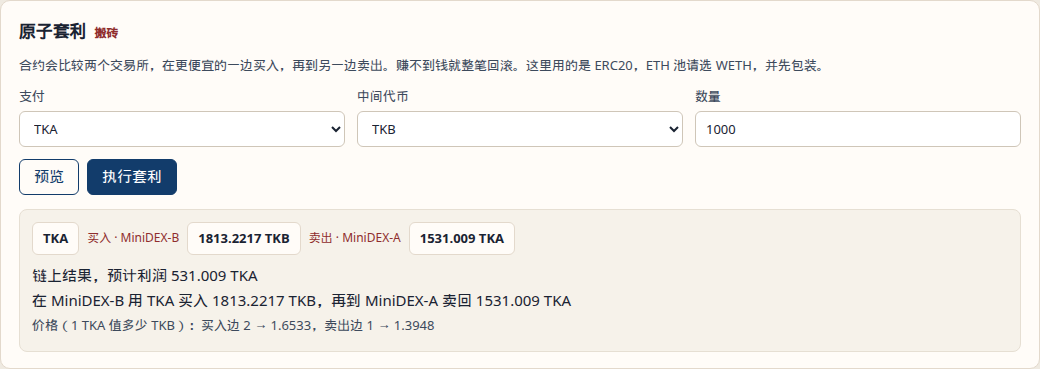
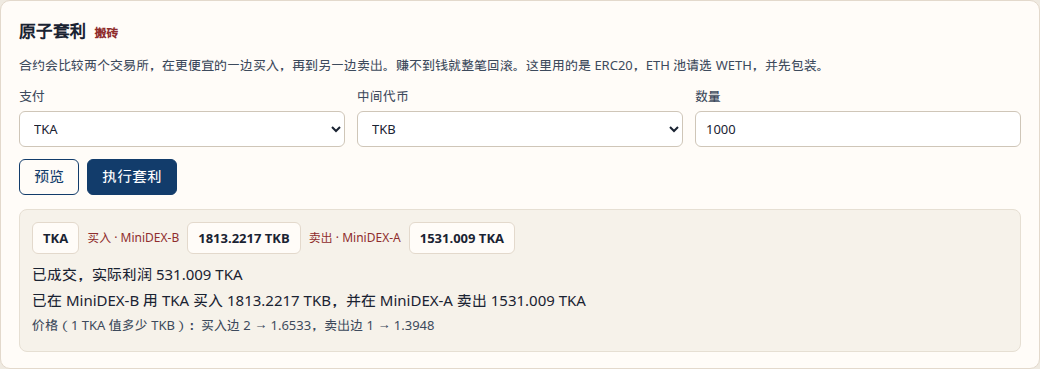
套利成交后改口，换池子时表和标题一起换
预览还是写预计利润。链上成功改成已成交、实际利润。点另一个池子时先把 LP 读完，再一起换标题和表格。

Changed region(s): [[0.0308, 0.6856, 0.5846, 0.8347], [0.4, 0.6856, 0.4923, 0.7154]]

diff --git a/frontend/src/App.tsx b/frontend/src/App.tsx
@@ -83,6 +83,8 @@ function App() {
   const [arbAmt, setArbAmt] = useState('1000');
   const [arbView, setArbView] = useState<ArbView | null>(null);
   const [wrapAmt, setWrapAmt] = useState('1');
+  const [lpPending, setLpPending] = useState('');
+  const pickGen = useRef(0);
 
   function pushLog(line: string) {
     setLogs((prev) => [`${new Date().toLocaleTimeString()}  ${line}`, ...prev].slice(0, 80));
@@ -94,15 +96,23 @@ function App() {
       selectedRef.current && rows.some((row) => row.key === selectedRef.current)
         ? selectedRef.current
         : (rows[0]?.key ?? '');
-    selectedRef.current = key;
-    setPools(rows);
-    setSelected(key);
     const pool = rows.find((row) => row.key === key);
-    setLps(pool ? await loadLps(provider, pool.exchangeIndex, pool.pair) : []);
-    if (owner) {
-      setBalances(await loadBalances(provider, owner));
-      setNfts(await loadMyNfts(provider, owner));
+    const nextLps = pool ? await loadLps(provider, pool.exchangeIndex, pool.pair) : [];
+    const nextBal = owner ? await loadBalances(provider, owner) : null;
+    const nextNfts = owner ? await loadMyNfts(provider, owner) : null;
+    const liveKey =
+      selectedRef.current && rows.some((row) => row.key === selectedRef.current) ? selectedRef.current : key;
+    setPools(rows);
+    if (nextBal && nextNfts) {
+      setBalances(nextBal);
+      setNfts(nextNfts);
     }
+    // 读取期间又点了别的池子，别把旧表盖回去。
+    if (liveKey !== key) return;
+    selectedRef.current = key;
+    setSelected(key);
+    setLps(nextLps);
+    setLpPending('');
   }
 
   useEffect(() => {
@@ -198,14 +208,23 @@ function App() {
   }
 
   async function onChoose(key: string) {
-    selectedRef.current = key;
-    setSelected(key);
     const pool = pools.find((row) => row.key === key);
-    const provider = providerRef.current ?? rpcProvider();
     if (!pool) return;
+    const gen = ++pickGen.current;
+    const previous = selectedRef.current;
+    selectedRef.current = key;
+    setLpPending(`正在读取 ${pool.exchangeName} · ${displaySymbol(pool.token0)} / ${displaySymbol(pool.token1)}`);
+    const provider = providerRef.current ?? rpcProvider();
     try {
-      setLps(await loadLps(provider, pool.exchangeIndex, pool.pair));
+      const rows = await loadLps(provider, pool.exchangeIndex, pool.pair);
+      if (gen !== pickGen.current) return;
+      setSelected(key);
+      setLps(rows);
+      setLpPending('');
     } catch (err) {
+      if (gen !== pickGen.current) return;
+      selectedRef.current = previous;
+      setLpPending('');
       setError(errText(err));
     }
   }
@@ -603,6 +622,7 @@ function App() {
         ) : (
           <p className="note">先在上面选一个池子。</p>
         )}
+        {lpPending ? <p className="note">{lpPending}</p> : null}
         <PositionTable rows={lps} showOwner />
         {current ? (
           <div className="fields">
@@ -792,7 +812,7 @@ function App() {
                   priceSellAfter: parsed.args.priceSellAfter,
                   tokenIn: tokenIn.symbol,
                   tokenOut: tokenOut.symbol,
-                  source: '链上结果',
+                  source: '已成交',
                 });
               })
             }
@@ -882,7 +902,13 @@ async function readArb(runner: Signer | Provider, arbIn: SideId, arbOut: SideId,
   };
 }
 
+export function arbHeadline(done: boolean, profitable: boolean, profitText: string, token: string) {
+  if (!profitable) return done ? '已成交，但没有正利润' : '预览，当前没有正利润';
+  return done ? `已成交，实际利润 ${profitText} ${token}` : `预览，预计利润 ${profitText} ${token}`;
+}
+
 function ArbBox({ view }: { view: ArbView }) {
+  const done = view.source === '已成交';
   return (
     <div className="arb-box">
       <div className="arb-path" title="同一笔交易里按这个顺序走">
@@ -892,13 +918,11 @@ function ArbBox({ view }: { view: ArbView }) {
         <span className="hop">卖出 · {view.sellName || '—'}</span>
         <span className="step">{fmt(view.amountBack)} {view.tokenIn}</span>
       </div>
+      <p>{arbHeadline(done, view.profitable, fmt(view.profit), view.tokenIn)}</p>
       <p>
-        {view.source}
-        {view.profitable ? `，预计利润 ${fmt(view.profit)} ${view.tokenIn}` : '，当前没有正利润'}
-      </p>
-      <p>
-        在 {view.buyName} 用 {view.tokenIn} 买入 {fmt(view.amountBought)} {view.tokenOut}，再到 {view.sellName} 卖回{' '}
-        {fmt(view.amountBack)} {view.tokenIn}
+        {done
+          ? `已在 ${view.buyName} 用 ${view.tokenIn} 买入 ${fmt(view.amountBought)} ${view.tokenOut}，并在 ${view.sellName} 卖出 ${fmt(view.amountBack)} ${view.tokenIn}`
+          : `在 ${view.buyName} 用 ${view.tokenIn} 买入 ${fmt(view.amountBought)} ${view.tokenOut}，再到 ${view.sellName} 卖回 ${fmt(view.amountBack)} ${view.tokenIn}`}
       </p>
       <p className="note">
         价格（1 {view.tokenIn} 值多少 {view.tokenOut}）：买入边 {fmt(view.priceBuyBefore)} → {fmt(view.priceBuyAfter)}，卖出边{' '}

diff --git a/frontend/src/App.test.tsx b/frontend/src/App.test.tsx
@@ -1,9 +1,15 @@
 import { expect, test } from 'vitest';
 import { render, screen } from '@testing-library/react';
-import App from './App';
+import App, { arbHeadline } from './App';
 
 test('shows the MiniDEX title', () => {
   render(<App />);
   expect(screen.getByRole('heading', { name: 'MiniDEX' })).toBeInTheDocument();
   expect(screen.getAllByText(/浙大区块链作业2/).length).toBeGreaterThan(0);
+});
+
+test('arb copy uses 预计 only before the trade lands', () => {
+  expect(arbHeadline(false, true, '531.009', 'TKA')).toBe('预览，预计利润 531.009 TKA');
+  expect(arbHeadline(true, true, '531.009', 'TKA')).toBe('已成交，实际利润 531.009 TKA');
+  expect(arbHeadline(false, false, '0', 'TKA')).toBe('预览，当前没有正利润');
 });
